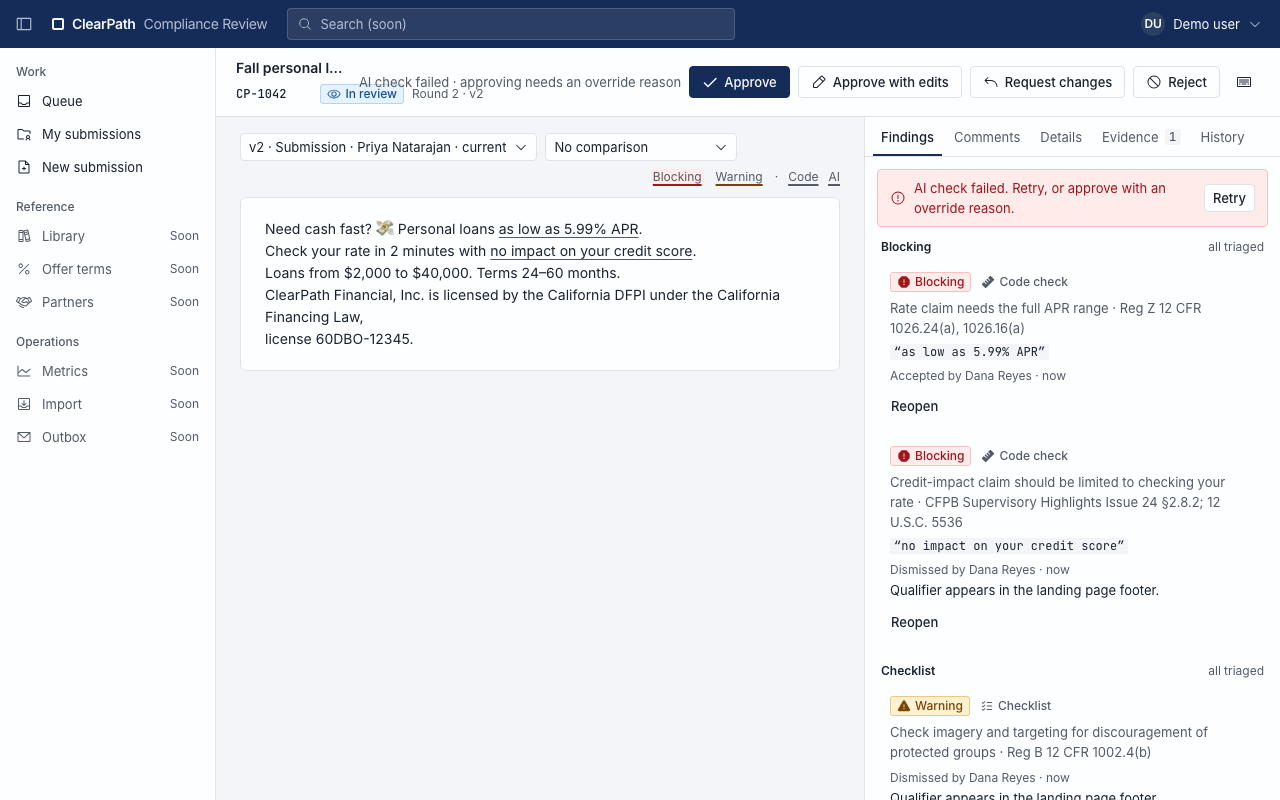
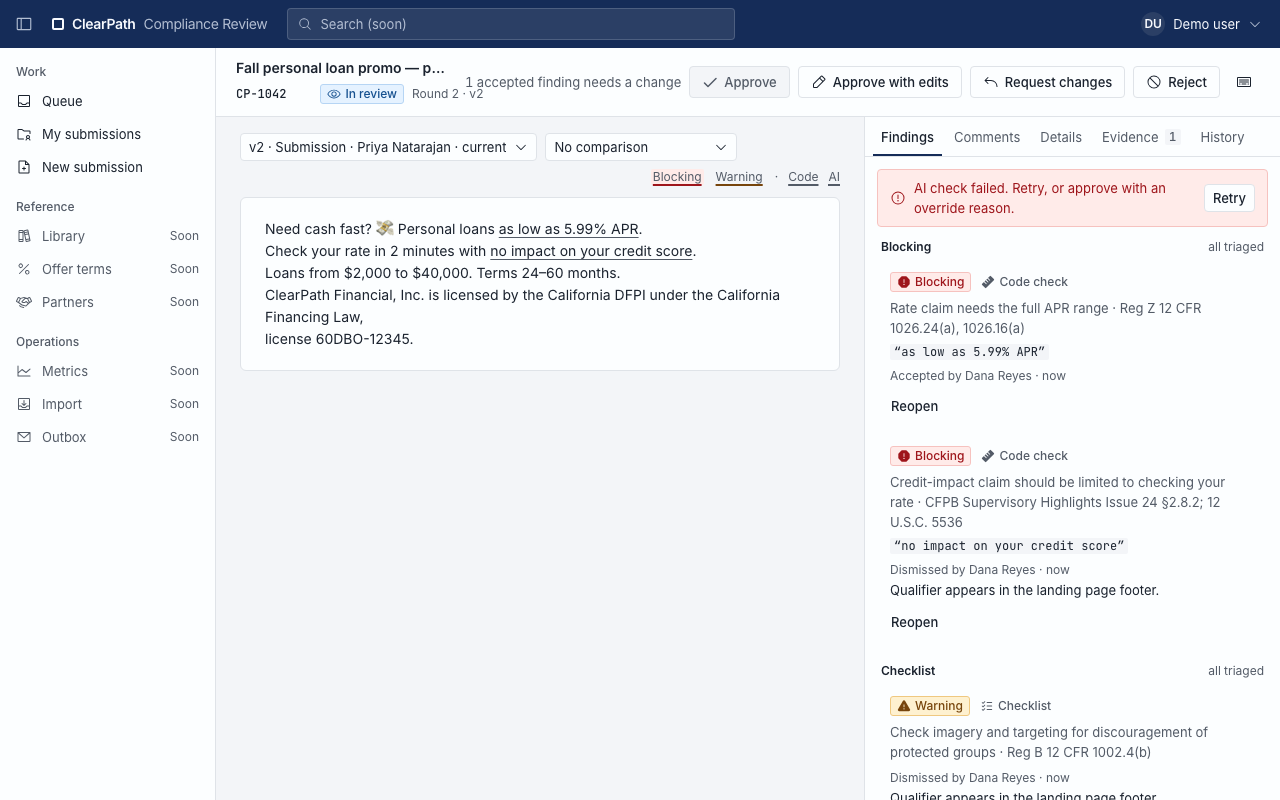
Submit e2e, resubmit screenshots, diff folds incidental words into one rewrite

Changed region(s): [[0.25, 0.0625, 0.625, 0.125]]

diff --git a/frontend/e2e/screens.spec.ts b/frontend/e2e/screens.spec.ts
@@ -163,10 +163,19 @@ test('intake-empty', async ({ page }) => {
 test('intake-live-findings', async ({ page }) => {
   await stubApi(page);
   await page.goto('/submit');
+  await page.getByLabel('Title').fill('Fall personal loan promo — paid social');
+  await page.getByRole('button', { name: /Product/ }).click();
+  await page.getByRole('option', { name: 'Personal loan' }).click();
+  await page.getByRole('button', { name: /Channel/ }).click();
+  await page.getByRole('option', { name: 'Paid social' }).click();
+  await page.getByText('California', { exact: true }).click();
+  await page.getByLabel('First run').fill('2026-11-01');
   const copy = page.getByRole('textbox', { name: /copy/i }).first();
   await copy.fill(versionFixture(1).content_text + '\nGuaranteed approval in minutes.');
-  await page.waitForTimeout(600);
+  await expect(page.locator('.app-copy-backdrop mark').first()).toBeVisible();
   await capture(page, 'intake-live-findings');
+  await page.getByRole('button', { name: 'Submit', exact: true }).click();
+  await capture(page, 'intake-confirm');
 });
 
 test('mine', async ({ page }) => {
@@ -218,4 +227,30 @@ test('mine', async ({ page }) => {
   });
   await page.goto('/mine');
   await capture(page, 'mine');
+});
+
+test('resubmit', async ({ page }) => {
+  await stubApi(page, {
+    item: {
+      status: 'changes_requested',
+      latest_decision: {
+        ...DECISION_APPROVED,
+        outcome: 'changes_requested',
+        version_n: 2,
+        reason:
+          'Add the full APR range next to “as low as”, and limit the credit-score claim to checking your rate.',
+      },
+    },
+    findings: triaged(FINDINGS_OPEN),
+  });
+  await page.goto('/mine/1042/resubmit');
+  const copy = page.getByRole('textbox', { name: 'Copy' });
+  await copy.fill(
+    versionFixture(2)
+      .content_text.replace('as low as 5.99% APR', '5.99%–35.99% APR for borrowers with excellent credit')
+      .replace('with no impact on your credit score', '; checking your rate won’t affect your credit score'),
+  );
+  await capture(page, 'resubmit-edit');
+  await page.getByRole('radio', { name: /Changes vs/ }).click();
+  await capture(page, 'resubmit-diff');
 });

diff --git a/frontend/src/ui/copy/wordDiff.ts b/frontend/src/ui/copy/wordDiff.ts
@@ -11,20 +11,50 @@ function tokenize(text: string): string[] {
 }
 
 /**
+ * A short run of unchanged text between two changes ("your", "rate", a lone space): a reader sees one
+ * rewritten phrase, so it's folded into the change rather than shown as "with ; no checking impact your on".
+ */
+function isIncidental(text: string): boolean {
+  return !text.includes('\n') && text.length <= 8 && text.trim().split(/\s+/).filter(Boolean).length <= 1;
+}
+
+/**
  * Client-side word diff in the server's segment shape, for previews of text that isn't a version yet
  * (resubmit, approve with edits). Persisted versions use `GET /items/{id}/diff`.
  */
 export function wordDiff(before: string, after: string): DiffSegmentOut[] {
+  const changes = diffArrays(tokenize(before), tokenize(after)).map((change) => ({
+    op: change.added ? ('insert' as const) : change.removed ? ('delete' as const) : ('equal' as const),
+    text: change.value.join(''),
+  }));
+
   const segments: DiffSegmentOut[] = [];
-  for (const change of diffArrays(tokenize(before), tokenize(after))) {
-    const op = change.added ? 'insert' : change.removed ? 'delete' : 'equal';
-    const text = change.value.join('');
-    const last = segments[segments.length - 1];
-    if (last?.op === op) {
-      last.text += text;
+  let removed = '';
+  let added = '';
+  const flush = () => {
+    if (removed !== '') segments.push({ op: 'delete', text: removed });
+    if (added !== '') segments.push({ op: 'insert', text: added });
+    removed = '';
+    added = '';
+  };
+
+  changes.forEach((change, index) => {
+    if (change.op === 'delete') {
+      removed += change.text;
+    } else if (change.op === 'insert') {
+      added += change.text;
     } else {
-      segments.push({ op, text });
+      const inChange = removed !== '' || added !== '';
+      const changeFollows = changes[index + 1] !== undefined;
+      if (inChange && changeFollows && isIncidental(change.text)) {
+        removed += change.text;
+        added += change.text;
+        return;
+      }
+      flush();
+      segments.push({ op: 'equal', text: change.text });
     }
-  }
+  });
+  flush();
   return segments;
 }

diff --git a/frontend/e2e/submit.spec.ts b/frontend/e2e/submit.spec.ts
@@ -1,0 +1,35 @@
+import { expect, test } from '@playwright/test';
+
+import type { SubmitItemIn } from '../src/api/generated/model';
+import { stubApi } from './stubApi';
+
+test('a marketer sees live findings while typing and the open count before submitting', async ({ page }) => {
+  const api = await stubApi(page);
+  await page.goto('/submit');
+
+  await page.getByLabel('Title').fill('Fall personal loan promo');
+  await page.getByRole('button', { name: /Product/ }).click();
+  await page.getByRole('option', { name: 'Personal loan' }).click();
+  await page.getByRole('button', { name: /Channel/ }).click();
+  await page.getByRole('option', { name: 'Paid social' }).click();
+  await page.getByLabel('First run').fill('2026-11-01');
+
+  const copy = page.getByRole('textbox', { name: /copy/i }).first();
+  await copy.fill('Need cash fast? 💸 Personal loans as low as 5.99% APR.');
+  // Highlighted in the copy, after an emoji, within the live-check budget.
+  await expect(page.locator('.app-copy-backdrop mark')).toHaveText('as low as', { timeout: 2000 });
+  await expect(page.getByText('Rate claim needs the full APR range')).toBeVisible();
+
+  await page.getByRole('button', { name: 'Submit', exact: true }).click();
+  await expect(page.getByText(/1 open finding/)).toBeVisible();
+  expect(api.posted.filter((p) => p.path === '/items')).toHaveLength(0);
+
+  await page.getByRole('button', { name: 'Submit anyway' }).click();
+  await expect(page).toHaveURL(/\/items\/1077$/);
+  const submitted = api.posted.find((p) => p.path === '/items')?.body as SubmitItemIn;
+  expect(submitted).toMatchObject({
+    title: 'Fall personal loan promo',
+    product: 'personal_loan',
+    channel: 'paid_social',
+  });
+});

diff --git a/frontend/src/ui/copy/wordDiff.test.ts b/frontend/src/ui/copy/wordDiff.test.ts
@@ -12,6 +12,19 @@ describe('wordDiff', () => {
     ]);
   });
 
+  it('folds short unchanged words between changes into one rewritten phrase', () => {
+    const segments = wordDiff(
+      'Check your rate in 2 minutes with no impact on your credit score.',
+      'Check your rate in 2 minutes; checking your rate won’t affect your credit score.',
+    );
+    expect(segments).toEqual([
+      { op: 'equal', text: 'Check your rate in 2 minutes' },
+      { op: 'delete', text: ' with no impact on ' },
+      { op: 'insert', text: '; checking your rate won’t affect ' },
+      { op: 'equal', text: 'your credit score.' },
+    ]);
+  });
+
   it('returns one equal segment for identical text', () => {
     expect(wordDiff('same copy', 'same copy')).toEqual([{ op: 'equal', text: 'same copy' }]);
   });

diff --git a/docs/plan/reports/review-intake.md b/docs/plan/reports/review-intake.md
@@ -8,4 +8,28 @@ the Review screen were built natively; New submission, My submissions, and Resub
 its own worktree, branched from the shared-layer commit and merged back. Parallel agents in one worktree
 would have seen each other's half-edited `theme.css`.
 
-(Sections below are filled in as work lands.)
+## What shipped
+
+### Shared layer (`frontend/src/ui/`, additive)
+
+| Module | What it does |
+|---|---|
+| `copy/segments.ts` | `utf16Mapper` / `toUtf16Span`: backend spans are Python code-point offsets, JS strings are UTF-16, so every span is converted at the boundary (an emoji before a finding would otherwise shift every highlight one character late). `segmentText` splits text at every mark boundary so overlapping and nested findings render each character once; `visibleMarks` hides a mark whose quote no longer sits at its span (stale live-check responses never mis-place a highlight). |
+| `copy/marks.ts` | `marksFromFindings(text, findings)`: stored or preview findings → UTF-16 marks with an accessible label. |
+| `copy/HighlightedText.tsx` | Read-only copy with `<mark>`s. Severity: blocking = tinted fill + red underline, warning = amber underline and no fill (so severity reads without color). Source by underline shape: code solid, AI dashed, checklist dotted. Resolved findings drop to a thin muted line. Repeated clicks on overlapping marks cycle through them. |
+| `copy/CopyEditor.tsx` | Textarea over a highlight backdrop in one grid cell with identical text metrics; the backdrop sets the height, so the editor grows and never scrolls internally (no scroll sync). A browser test pins the layout match. |
+| `copy/useLiveChecks.ts` | `POST /checks/preview` as the copy changes: 150 ms debounce (the spec's 300 ms is the end-to-end budget), React Query keyed on the input so a superseded request is cancelled via `signal` and identical text is cached. |
+| `copy/wordDiff.ts`, `copy/DiffText.tsx` | Client word diff (jsdiff `diffArrays` over a tokenizer that keeps numbers like `5.99` whole) in the server's `DiffSegmentOut` shape; insert = underline on a neutral tint, delete = struck and muted (no status color borrowed). |
+| `findings/` | `groupFindings` (blocking → warning → checklist; human items always checklist; stable position order so cards never jump while triaging), `FindingSummary`. |
+| `forms/` | RAC fields (`TextInput`, `TextAreaField`, `SelectField`, `CheckboxGroupField`, `CheckboxField`); `apiErrorBody`, `apiErrorMessage`, `fieldErrorsFrom` (422 `loc` → form field). |
+| `useHotkeys.ts` | Single-key shortcuts that ignore text fields, modifier keys, and open modal dialogs. |
+| `Dialog.tsx`, `labels.ts` | `ModalDialog` (confirmations and shortcut help only); enum labels, `plural`, `formatDate`, `formatBytes`. |
+| `icons.ts` | Two keys: `action.pull` (Minus, the bare sibling of `status.withdrawn`'s MinusCircle) and `action.shortcuts` (Keyboard). |
+
+### Review screen (`/items/$itemId`, `features/review/`)
+
+(filled in below)
+
+## API gaps
+
+(filled in below)
